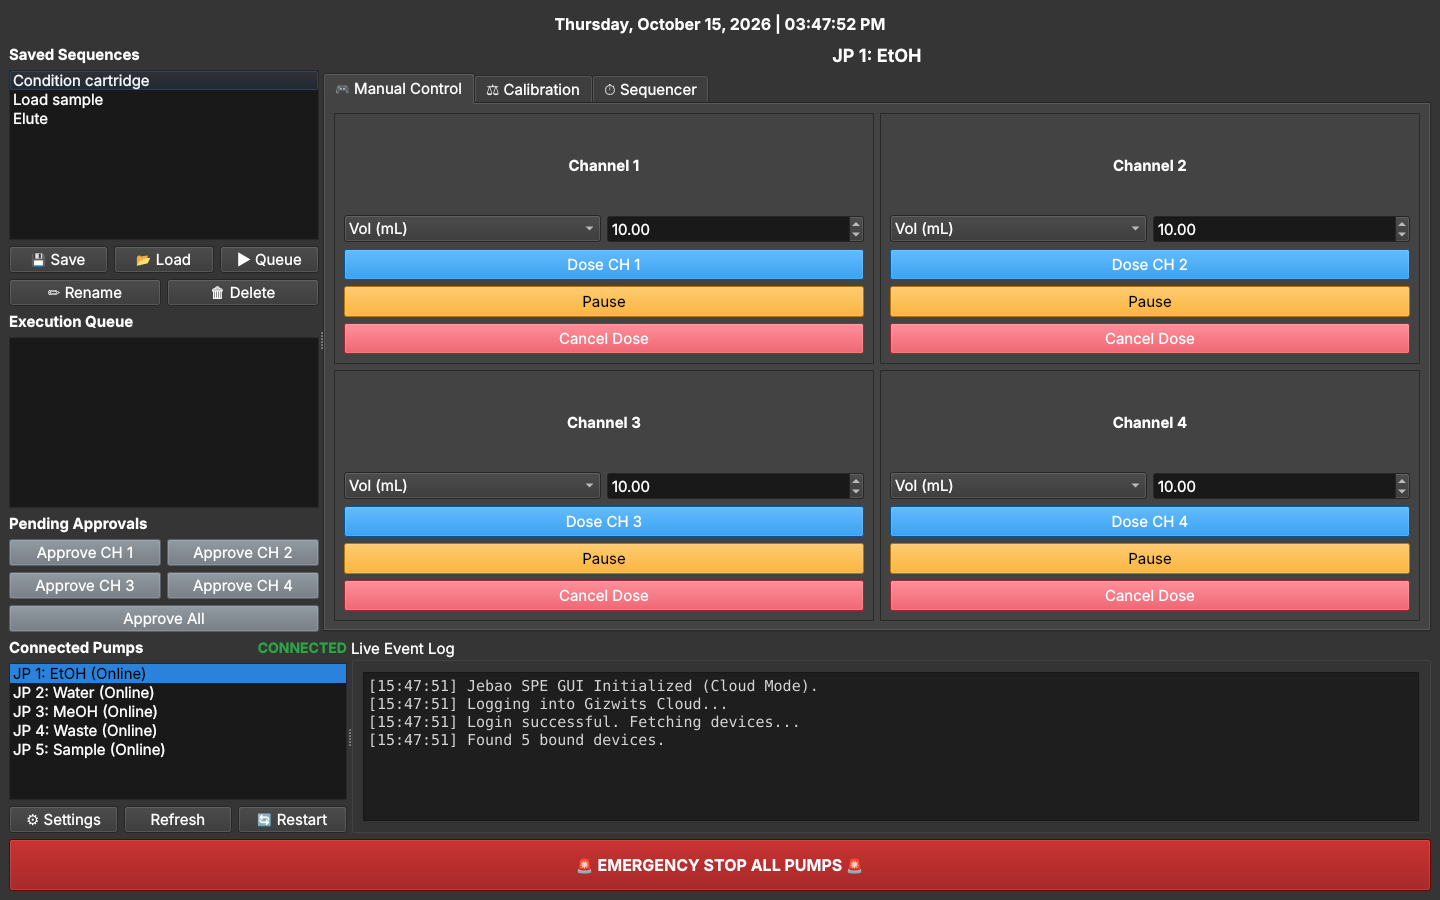
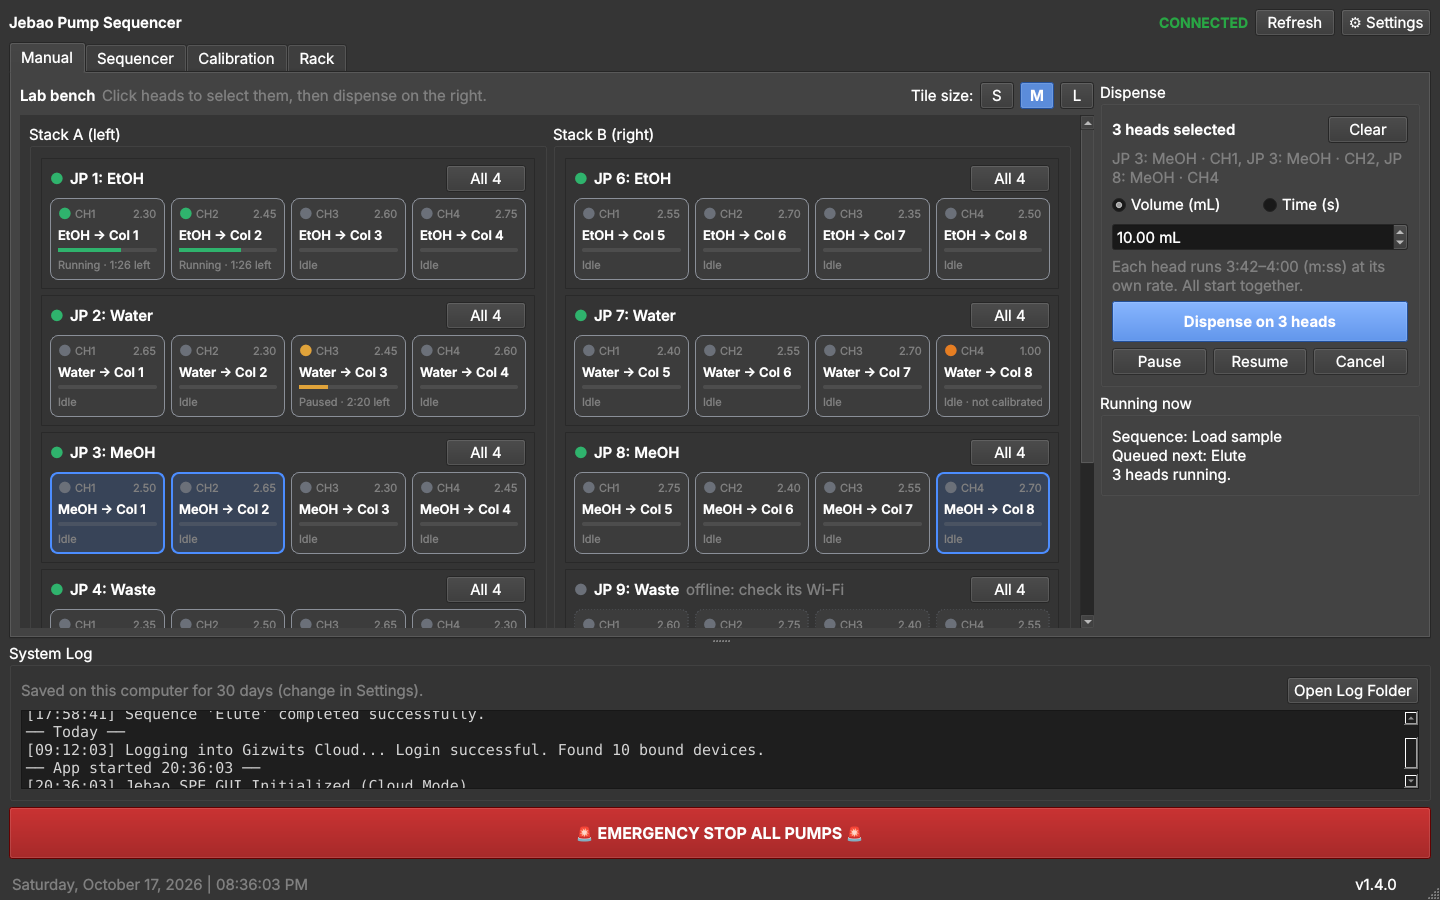
Document the 2.0 layout: Manual and Rack tabs, new screenshots
Claude-Session: https://claude.ai/code/session_01Q45g1uXJXLbyeLygNHJ6jd

diff --git a/README.md b/README.md
@@ -1,8 +1,8 @@
 # Jebao Pump Sequencer
 
-A desktop app for running Jebao MD-4.4 / Doser 2.4 four-channel dosing pumps from a computer: manual doses, per-channel calibration, multi-step sequences across several pumps, and one big emergency stop.
+A desktop app for running Jebao MD-4.4 / Doser 2.4 four-channel dosing pumps from a computer: a live view of every pump head, dosing on many heads at once, calibration, multi-step sequences across several pumps, and one big emergency stop.
 
-![Sequencer tab with a six-step sequence across three pumps](docs/screenshot-sequencer.png)
+![Manual tab: two stacks of five pumps, each head with its name, flow rate and status; three heads selected for dispensing](docs/screenshot-manual.png)
 
 ## Why
 
@@ -10,21 +10,23 @@ Jebao dosing pumps are cheap and reliable, but their phone app is built for aqua
 
 ## Features
 
-- **Manual control**: dose any channel by volume (mL) or by time (s), pause it, or cancel it.
-- **Calibration**: run a channel for 60 seconds, type in the volume or mass you collected (water, ethanol, methanol or a custom density), and the app saves that channel's flow rate together with the tubing size.
-- **Sequences**: build a table of steps (Dose, Staccato, Pause, Pause for user review, Wait for all, Run sub-sequence) across any of your pumps, save it under a name, and reuse it.
+- **Manual tab, the whole rack at a glance**: every pump appears where it sits on the bench, with its four heads as tiles showing the head's name, flow rate and what it's doing (idle, running with time left, paused, offline, not calibrated yet). Tile size S / M / L fits small and large screens.
+- **Dose many heads at once**: click heads (or **All 4** on a pump) to select them, then dispense a volume (mL) or run them for a time (s). Each head runs for its own calibrated time; all start together. Pause, resume or cancel the selected heads.
+- **Rack tab, your physical setup**: choose how many stacks and pumps per stack, drag pumps into place (or **Auto-arrange A→Z**: JP 2 comes before JP 10), and give each pump and head a name, like "Water → Col 3". Other people can set up their own rigs the same way.
+- **Calibration**: run a channel for 60 seconds, type in the volume or mass you collected (water, ethanol, methanol or a custom density), and the app saves that channel's flow rate, the tubing size and the date.
+- **Sequences**: build a table of steps (Dose, Staccato, Pause, Pause for user review, Wait for all, Run sub-sequence) across any of your pumps, save it under a name, and reuse it. Saved sequences and the queue are in the Sequencer tab.
 - **Channels run side by side**: each channel works through its own steps at the same time as the others. "Wait for All" lines them up again, and async doses run in the background.
 - **Queue**: line up several saved sequences and they run one after another.
-- **User review steps**: a sequence can stop and wait until you click **Approve** for that channel.
-- **Emergency stop**: one button cancels the running sequence, clears the queue and turns off all four channels on every pump.
-- **Shared settings**: keep your login, calibrations and sequences in a synced folder so every computer uses the same ones.
-- **System log that's kept**: everything the app does is logged and saved on each computer for 30 days (adjustable in Settings). When you open the app, recent history is shown again above the new session.
 - **Review steps you can't miss**: when a sequence waits for your review, an orange bar appears across the top with an Approve button for each waiting channel.
-- **Pump order**: drag pumps in the list into your own order, or press **Sort A→Z** (JP 2 comes before JP 10).
+- **Emergency stop**: one button cancels the running sequence and any manual doses, clears the queue and turns off all four channels on every pump.
+- **System log under every tab**: everything the app does is logged and saved on each computer for 30 days (adjustable in Settings). When you open the app, recent history is shown again above the new session.
+- **Shared settings**: keep your login, calibrations, layout, names and sequences in a synced folder so every computer uses the same ones.
 - **Version and updates**: the version is shown in the bottom-right corner. When a newer release is out it turns orange ("Update available"); click it to see what changed and update. It won't update while a sequence, dose or calibration is running.
 - **Desktop shortcut**: the app puts an icon on your desktop the first time it starts and refreshes it after each update. On Windows it opens without a console window; on a Mac it's a small app you can drag to the Dock. You can turn this off in Settings.
 
-![Manual Control tab](docs/screenshot-manual.png)
+![Rack tab: two stacks of five pumps, the Not placed list, and the names of one pump's heads](docs/screenshot-rack.png)
+
+![Sequencer tab: saved sequences and the queue on the left, a six-step sequence across three pumps](docs/screenshot-sequencer.png)
 
 ## Requirements
 
@@ -60,9 +62,12 @@ Jebao dosing pumps are cheap and reliable, but their phone app is built for aqua
 ## First run
 
 1. Click **Settings** and enter the email and password of your Jebao account. Choose a theme and text size if you like.
-2. The app logs in and lists your pumps under **Connected Pumps**. It uses the names you gave them in the phone app.
-3. Calibrate each channel you plan to use (**Calibration** tab). Until you do, the app assumes 1 mL/min, so volume doses will be wrong.
-4. Try a small manual dose, then build a sequence.
+2. The app logs in and shows your pumps in the **Manual** tab, using the names you gave them in the phone app. At first they are all in one stack.
+3. Open the **Rack** tab and arrange them as they sit on your bench: set the number of stacks and pumps per stack, then drag each pump into its place (or press **Auto-arrange A→Z**). Click a pump to name it and its heads.
+4. Calibrate each head you plan to use (**Calibration** tab). Until you do, the app assumes 1 mL/min and marks the head "not calibrated", so volume doses would be wrong.
+5. In **Manual**, select a head, try a small dose, then build a sequence in **Sequencer**.
+
+Coming from 1.x? Your login, calibrations, pump order and saved sequences carry over. The pumps start in one stack in your old order until you arrange them in the Rack tab.
 
 ## Updating
 
@@ -83,7 +88,7 @@ The app keeps two settings files:
 | File | What's in it | Example |
 |---|---|---|
 | `secrets.json` | Your Jebao login | [`examples/secrets.example.json`](examples/secrets.example.json) |
-| `jebao_config.json` | Theme, pump order, calibrations, tubing sizes, last volumes, the current sequence and saved sequences | [`examples/jebao_config.example.json`](examples/jebao_config.example.json) |
+| `jebao_config.json` | Theme, the rack layout, pump and head names, calibrations and their dates, tubing sizes, Manual tab choices (tile size, last amount), the current sequence and saved sequences | [`examples/jebao_config.example.json`](examples/jebao_config.example.json) |
 
 You don't need to write either file yourself. The app creates them when you save settings.
 

diff --git a/CLAUDE.md b/CLAUDE.md
@@ -14,11 +14,14 @@ PyQt6 app that drives Jebao MD-4.4 / Doser 2.4 4-channel dosing pumps (5 pumps, 
 - Emergency stop sends all four channels `false` to every pump.
 - `ConfigManager` → `jebao_config.json`: names, calibration (flow rates) and last volumes, keyed by cloud device id (`did`).
 - `SecretsManager` → `secrets.json`: Jebao account email and password. **Gitignored. Never print, log, commit or copy its contents.**
-- Main classes in `jebao_gui.py` (~2,100 lines): `GUILogHandler`, `CheckableComboBox`, `AppBox` (Settings → updates + desktop shortcut), `SettingsDialog`, `JebaoPumpGUI`.
+- Main classes in `jebao_gui.py` (~2,500 lines): `GUILogHandler`/`_LogBridge` (thread-safe log box), `HeadRun`, `CheckableComboBox`, `AppBox` (Settings → updates + desktop shortcut), `SettingsDialog`, `JebaoPumpGUI`.
+- **2.0 layout:** top bar (status, Refresh, Settings) → approval banner → tabs **Manual | Sequencer | Calibration | Rack** in a vertical splitter with the System Log → Emergency Stop → status bar (clock, version). `rack_widgets.py` holds `ManualTab` (PumpCard + `HeadTile`, selection, Dispense panel, S/M/L sizes in `config['ui']`) and `RackTab` (TrayList + `SlotWidget` drag-and-drop with MIME `application/x-jebao-pump`, click-to-place fallback, pump/head names). Both use the main window as `host` (see the module docstring for the methods). `refresh_pumps()` re-sorts `cloud_devices` in rack order and rebuilds the Calibration combo and both tabs; `ui_timer` (300 ms) calls `manual_tab.refresh()`.
+- `rack.py`: layout data in `config['rack']` (`name`, `slots_per_stack`, `stacks[{name, slots[did|None]}]`), pure functions (place = swap, remove, resize, auto_arrange, natural_key). First 2.0 run: `rack_layout()` builds one stack from the old `pump_order`. Names: `config['pumps'][did]['display_name']`, `['head_names']` (4), `['calibrated_at']` (4 ISO dates; 1.0 mL/min with no date = "not calibrated").
+- **Head runs:** `head_runs[(did, ch)] = HeadRun` while a motor is on. `_interruptible_motor_run(ch, did, s, source)` registers one for sequences (channel-level `_ch_paused/_ch_cancelled` still apply) and manual doses; calibration registers its 60 s runs. `dispense(heads, value, unit)` groups heads per pump (one ON per pump), skips offline/running/zero-rate heads; `pause_heads/resume_heads/cancel_heads` act per head; Emergency Stop cancels all. Cancelling a head inside a running sequence stops that sequence.
 - `updater.py`: checks GitHub's latest release, fast-forwards a git clone to the tag, reinstalls (`pip install -e .`) only if `pyproject.toml` changed, rolls back on failure. Same design as Balance-Streamer-GUI and Masterflex. `JebaoPumpGUI.busy_reason()` blocks updating while a sequence/queue, manual dose or calibration is running (`_motor_jobs` counter).
 - Startup (`main()` → `start_background_tasks()` after 1.5 s): one GitHub release check (bottom-right `version_button` turns orange when outdated; click → Settings update offer) and `maintain_desktop_shortcut()` (creates the shortcut on first launch, refreshes it when `__version__` changed; per-copy record `desktop_shortcut.json`, gitignored; off via the Settings checkbox). Neither runs in tests (they never call `main()`).
 - `eventlog.py`: the system log on disk. `main()` prunes and loads this computer's history (`JebaoPumpGUI(history=...)`) and adds `DailyFileHandler` → `<data>/logs/events-YYYY-MM-DD-<computer>.log` (same folder as crash_log.py's error log) (computer name in the file name so SyncThing never sees two writers). Retention `log_keep_days` in jebao_config (default 30, Settings). Tests never call `main()`, so they don't write logs.
-- UI since 1.4.0: approvals are an orange banner (`refresh_approval_banner()`, buttons only for waiting channels); clock in the status bar; Restart only in Settings → App; `natural_key()` + Sort A→Z for the pump list. The Sequencer's blank Pump cell on Pause/Wait/Sub-sequence rows is intentional (those steps act on a channel, not a pump).
+- Since 1.4.0: approvals are an orange banner (`refresh_approval_banner()`, buttons only for waiting channels); clock in the status bar; Restart only in Settings → App. The Sequencer's blank Pump cell on Pause/Wait/Sub-sequence rows is intentional (those steps act on a channel, not a pump).
 - `shortcut.py`: desktop shortcut per OS (Windows .lnk via PowerShell with env-var values, macOS .app bundle, Linux .desktop), pointing at this clone's Python and `jebao_gui.py`. Icons in `assets/` (drawn by `scripts/make_icon.py`).
 
 ## History and open work
